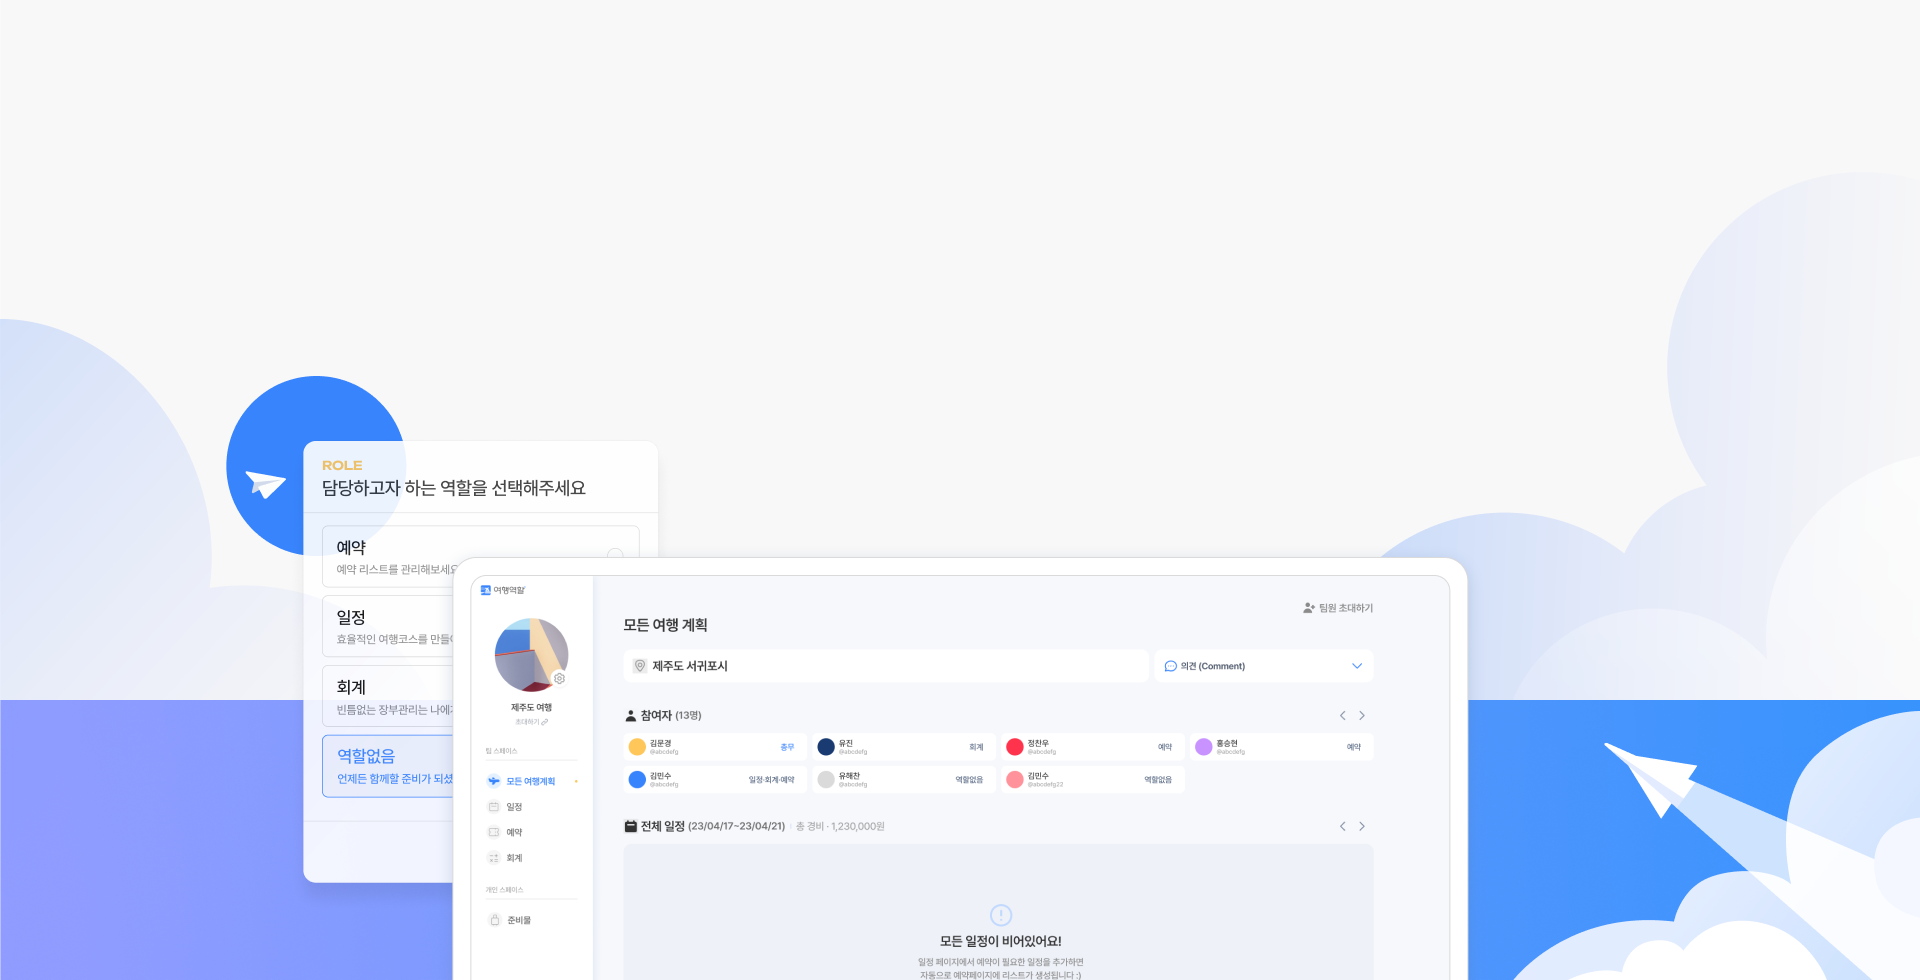
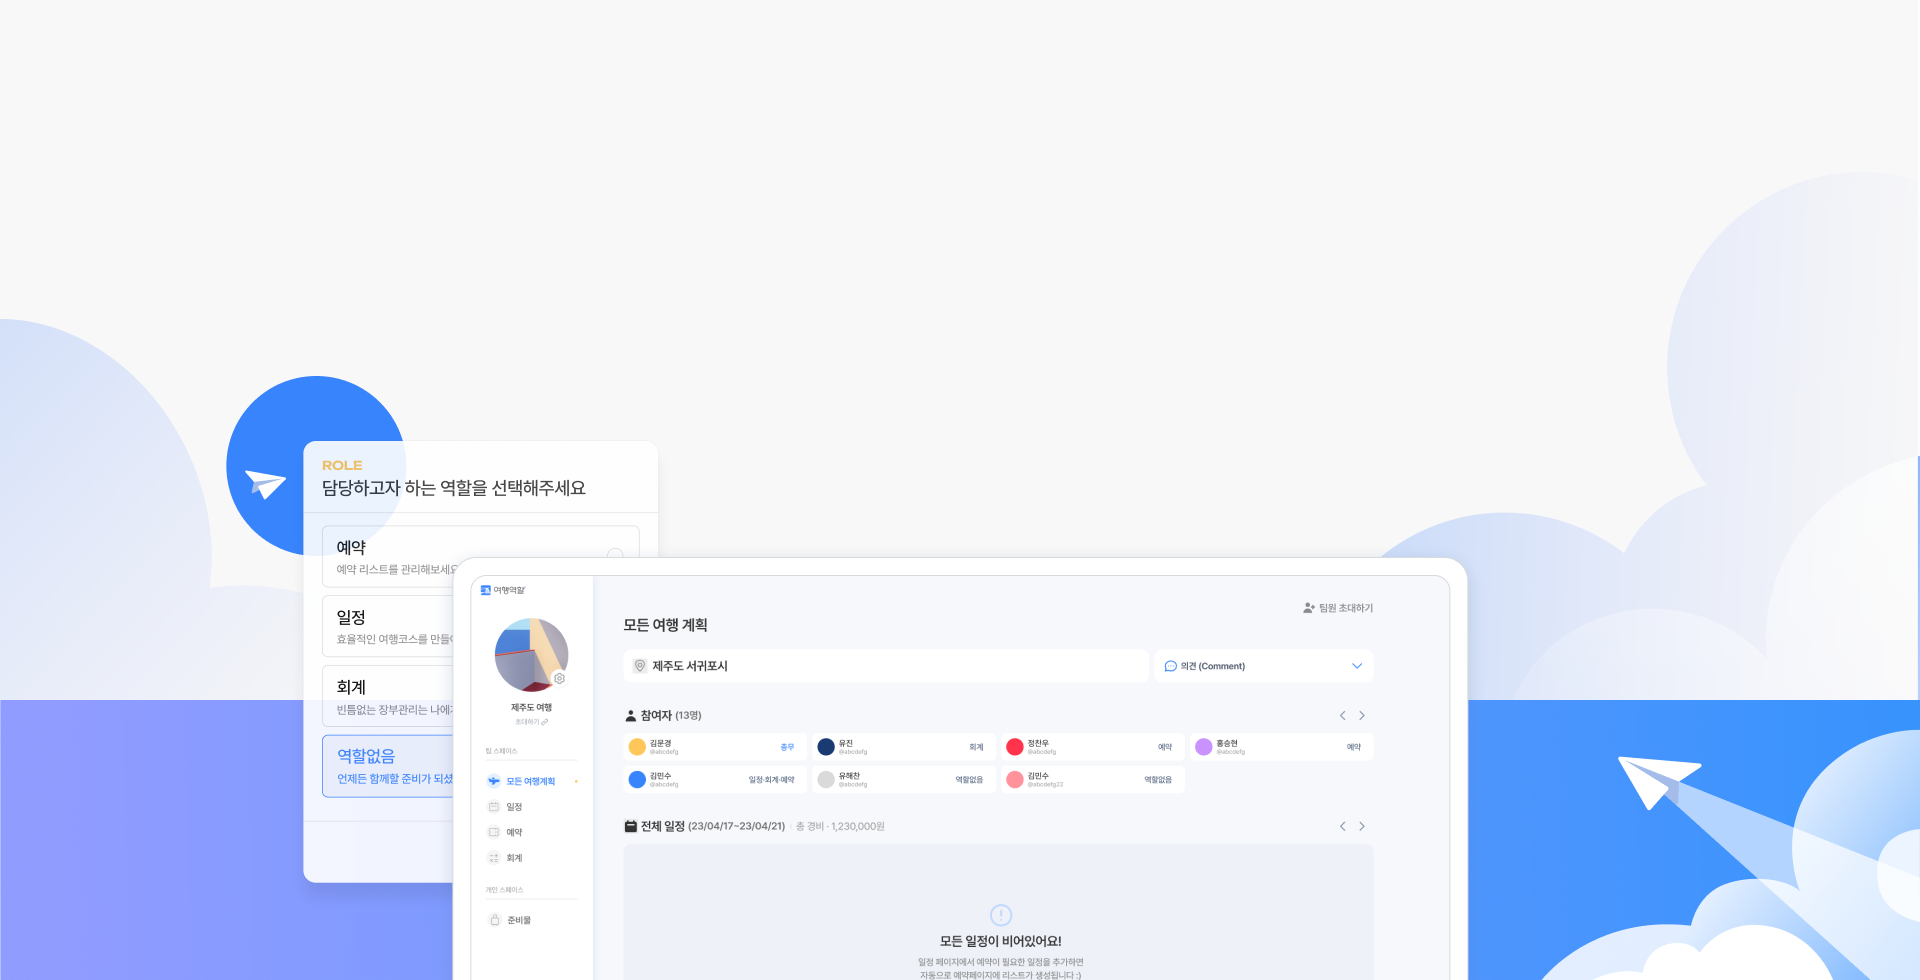
Fixed : 이미지 수정 + 파비콘, 사이트네임 수정

Changed region(s): [[0.7812, 0.7041, 1.0, 1.0], [0.9375, 0.9184, 1.0, 1.0]]

diff --git a/public/index.html b/public/index.html
@@ -1,20 +1,22 @@
 <!DOCTYPE html>
 <html lang="en">
-
-<head>
-  <meta charset="utf-8" />
-  <link rel="icon" href="%PUBLIC_URL%/favicon.ico" />
-  <meta name="viewport" content="width=device-width, initial-scale=1" />
-  <meta name="theme-color" content="#000000" />
-  <meta name="description" content="Web site created using create-react-app" />
-  <link rel="apple-touch-icon" href="%PUBLIC_URL%/logo192.png" />
-  <!--
+  <head>
+    <meta charset="utf-8" />
+    <link rel="icon" href="%PUBLIC_URL%/favicon.ico" />
+    <meta name="viewport" content="width=device-width, initial-scale=1" />
+    <meta name="theme-color" content="#000000" />
+    <meta
+      name="description"
+      content="Web site created using create-react-app"
+    />
+    <link rel="apple-touch-icon" href="%PUBLIC_URL%/logo192.png" />
+    <!--
       manifest.json provides metadata used when your web app is installed on a
       user's mobile device or desktop. See https://developers.google.com/web/fundamentals/web-app-manifest/
     -->
 
-  <link rel="manifest" href="%PUBLIC_URL%/manifest.json" />
-  <!--
+    <link rel="manifest" href="%PUBLIC_URL%/manifest.json" />
+    <!--
       Notice the use of %PUBLIC_URL% in the tags above.
       It will be replaced with the URL of the `public` folder during the build.
       Only files inside the `public` folder can be referenced from the HTML.
@@ -23,13 +25,13 @@
       work correctly both with client-side routing and a non-root public URL.
       Learn how to configure a non-root public URL by running `npm run build`.
     -->
-  <title>React Redux App</title>
-</head>
+    <title>여행역할</title>
+  </head>
 
-<body>
-  <noscript>You need to enable JavaScript to run this app.</noscript>
-  <div id="root"></div>
-  <!--
+  <body>
+    <noscript>You need to enable JavaScript to run this app.</noscript>
+    <div id="root"></div>
+    <!--
       This HTML file is a template.
       If you open it directly in the browser, you will see an empty page.
 
@@ -39,10 +41,11 @@
       To begin the development, run `npm start` or `yarn start`.
       To create a production bundle, use `npm run build` or `yarn build`.
     -->
-  <!-- 카카오맵 -->
+    <!-- 카카오맵 -->
 
-  <script type="text/javascript"
-    src="//dapi.kakao.com/v2/maps/sdk.js?appkey=a6892c67ee9e75b794e1026abc79bcd8&libraries=services,clusterer"></script>
-</body>
-
+    <script
+      type="text/javascript"
+      src="//dapi.kakao.com/v2/maps/sdk.js?appkey=a6892c67ee9e75b794e1026abc79bcd8&libraries=services,clusterer"
+    ></script>
+  </body>
 </html>

diff --git a/src/features/layout/Sidebar/MandateRoleModal/MandateRoleModal.jsx b/src/features/layout/Sidebar/MandateRoleModal/MandateRoleModal.jsx
@@ -5,6 +5,7 @@ import Button from "../../../../components/Button";
 import { useNavigate, useParams } from "react-router-dom";
 import MandateRoleLi from "./MandateRoleLi";
 import { mandateRoleAndDelete } from "../sidebarSlice";
+import { toast } from "react-toastify";
 
 const MandateRoleModalWrap = styled.div``;
 
@@ -80,6 +81,18 @@ const MandateRoleModal = ({ setOpenRoomDeleteModal }) => {
       if (res.meta.requestStatus === "fulfilled") {
         window.alert("총무 위임에 성공했습니다. 팀 스페이스에서 탈퇴합니다.");
         navigate("/spaceList");
+      }
+      if (res.payload.response.status === 400) {
+        toast.error("총무 권한을 위임할 대상을 선택하세요.", {
+          position: "top-center",
+          autoClose: 3000,
+          hideProgressBar: true,
+          closeOnClick: true,
+          pauseOnHover: true,
+          draggable: true,
+          progress: undefined,
+          theme: "colored",
+        });
       }
     });
   }, [dispatch, navigate, newEmail, roomId]);

diff --git a/src/features/Login/Login.jsx b/src/features/Login/Login.jsx
@@ -19,21 +19,17 @@ import FormControl from "@mui/material/FormControl";
 import Visibility from "@mui/icons-material/Visibility";
 import VisibilityOff from "@mui/icons-material/VisibilityOff";
 import FormHelperText from "@mui/material/FormHelperText";
-import authBg from "../../assets/images/authBg.png";
 import Header from "../layout/Header";
 import { getTravelList } from "../SpaceList/travelSlice";
 
 const LoginWrap = styled.div`
   width: 100%;
   height: 100vh;
-  background-image: url(${authBg});
-  background-size: cover cover;
-  background-repeat: no-repeat;
-  background-position: 100% 100%;
   padding-top: 2rem;
   display: flex;
   justify-content: center;
   align-items: center;
+  background-color: #f4f6fb;
 `;
 
 const LoginContainer = styled.div`

diff --git a/src/features/layout/Sidebar/MandateRoleModal/MandateRoleLi.jsx b/src/features/layout/Sidebar/MandateRoleModal/MandateRoleLi.jsx
@@ -96,12 +96,7 @@ const MandateRoleLi = ({
     [setNewEmail]
   );
   return (
-    <MandateRoleLink
-      id={email}
-      onClick={onClickRole}
-      newEmail={newEmail}
-      email={email}
-    >
+    <MandateRoleLink newEmail={newEmail} email={email}>
       <MandateRoleLinkHeader newEmail={newEmail} email={email}>
         <img src={profile === null ? userProfile : profile} alt={name} />
         <dl>
@@ -119,10 +114,7 @@ const MandateRoleLi = ({
             )
           )}
         </ul>
-        <p>
-          <span>
-            <Icons.HiCheck />
-          </span>
+        <p id={email} onClick={onClickRole}>
           {newEmail === email && (
             <span>
               <Icons.HiCheck />

diff --git a/src/features/Sign/Sign.jsx b/src/features/Sign/Sign.jsx
@@ -1,9 +1,7 @@
 import React from "react";
 import styled from "styled-components";
-import { FcGoogle } from "react-icons/fc";
 import SignForm from "./layout/SignForm";
 import Header from "../layout/Header";
-import authBg from "../../assets/images/authBg.png";
 
 const SignWrap = styled.div`
   width: 100%;
@@ -11,11 +9,8 @@ const SignWrap = styled.div`
   display: flex;
   align-items: center;
   justify-content: center;
-  background-image: url(${authBg});
-  background-size: cover cover;
-  background-repeat: no-repeat;
-  background-position: 100% 100%;
   padding-top: 2rem;
+  background-color: #f4f6fb;
 `;
 const SignHeader = styled.div`
   display: flex;

diff --git a/src/features/SpaceList/SpaceList.jsx b/src/features/SpaceList/SpaceList.jsx
@@ -24,8 +24,7 @@ const SpaceListWrap = styled.main`
 
 const SpaceListContainer = styled.div`
   height: 100vh;
-  padding-top: 9rem;
-  margin-top: 10rem;
+  padding-top: 19rem;
 `;
 
 const SpaceHeader = styled.div`
